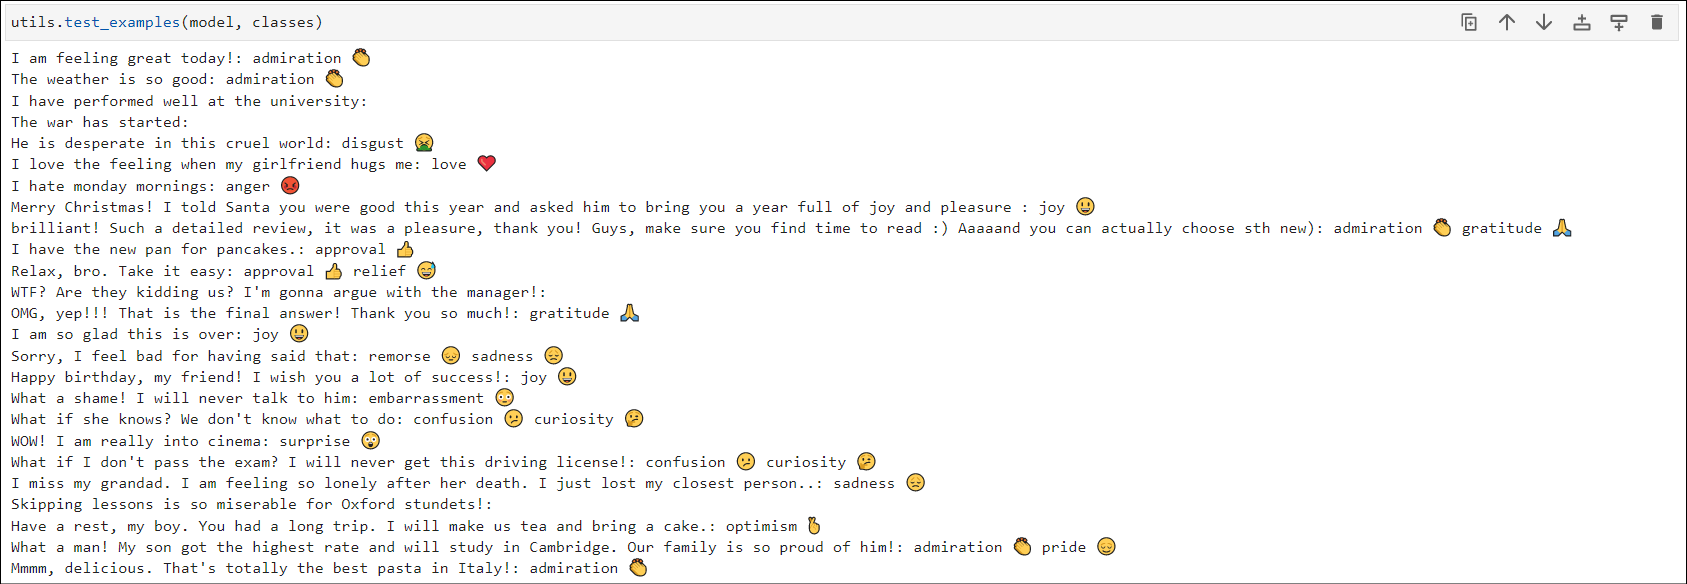
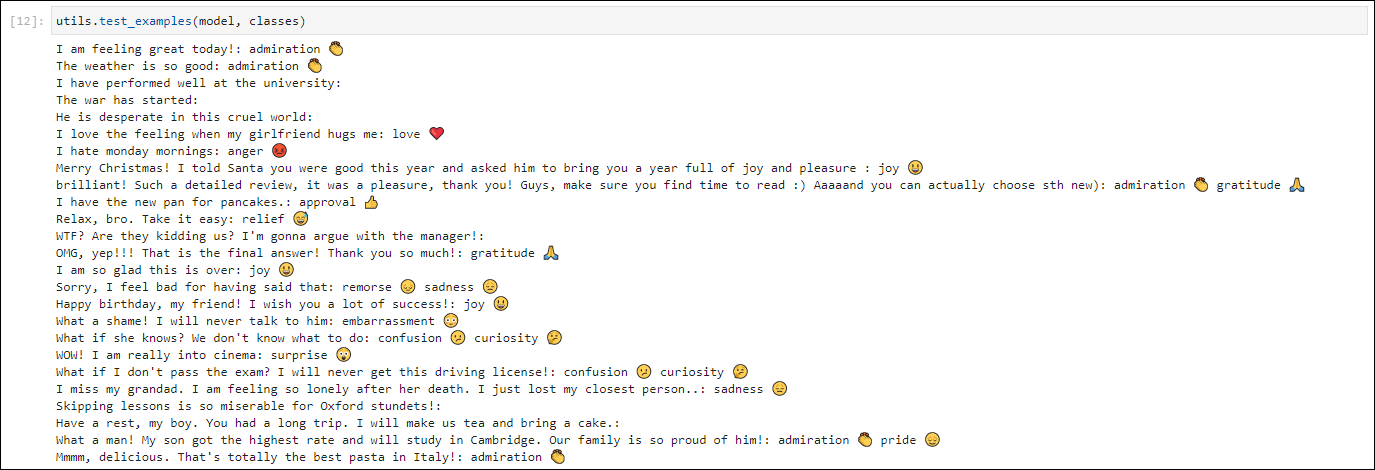
Updated README with the latest built results of AdamW optimized model

Changed region(s): [[0.0, 0.0, 1.0, 1.0], [0.8553, 0.0, 1.0, 0.0596]]

diff --git a/README.md b/README.md
@@ -41,11 +41,11 @@ You can use notebooks as examples to develop your own models. See `requirements.
 ### ✅ Results
 Using `small_bert/bert_en_uncased_L-2_H-128_A-2` classifier reached the following
 metrics in emotions prediction:  
-`F1-Score (micro): 0.5874`  
-`F1-Score (macro): 0.5128`  
+`F1-Score (micro): 0.5788`  
+`F1-Score (macro): 0.5009`  
 and in sentiments prediction:  
-`F1-Score (micro): 0.7797`  
-`F1-Score (macro): 0.7396`  
+`F1-Score (micro): 0.7754`  
+`F1-Score (macro): 0.7400`  
   
 See examples below
 ![Example](example.png)
